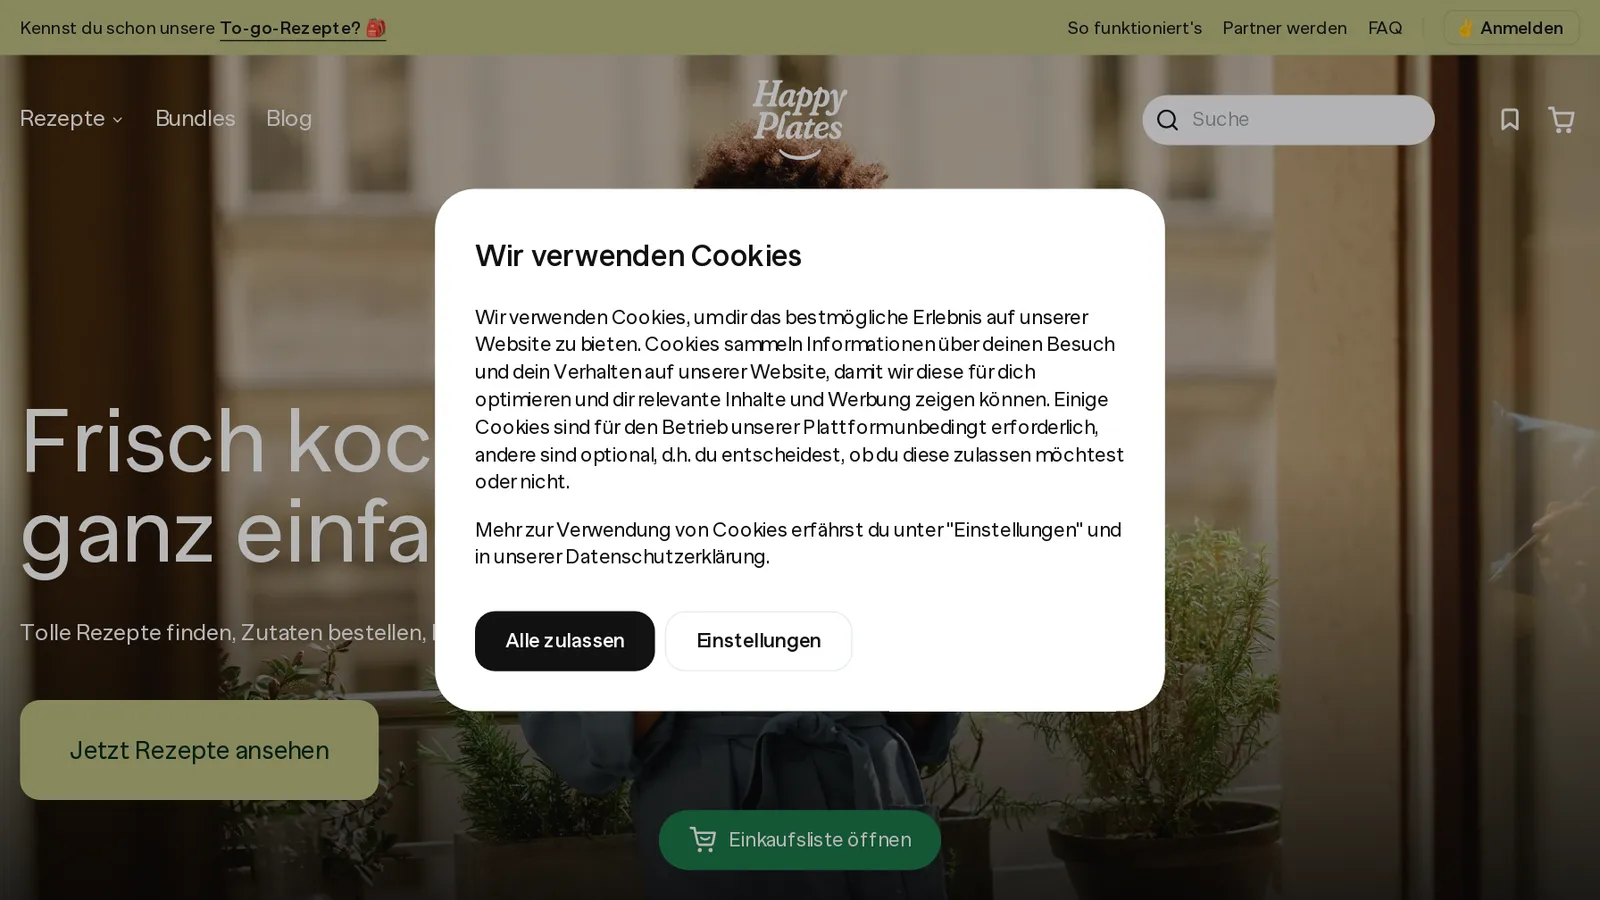
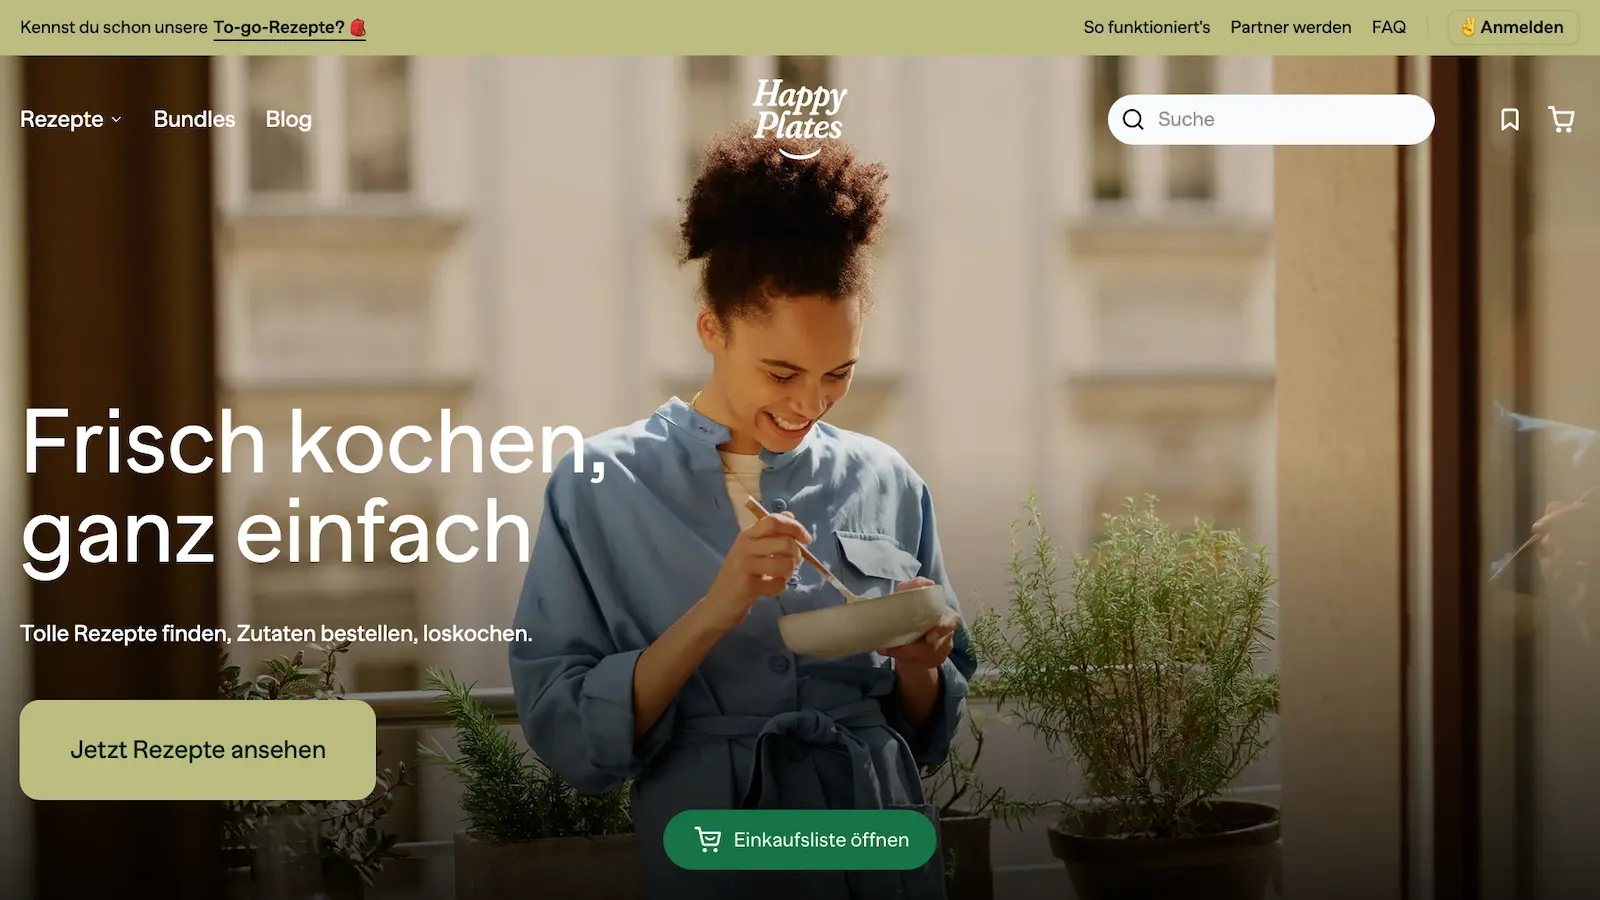
Fix up screenshots & add features/highlights

diff --git a/src/content/showcase/hackurity.md b/src/content/showcase/hackurity.md
@@ -3,4 +3,5 @@ title: "Hackurity - Automated Cybersecurity"
 image: "/src/content/showcase/_images/hackurity.webp"
 url: "https://hackurity.io/"
 categories: ["tech"]
+featured: 15
 ---

diff --git a/src/content/showcase/happyplates.com.md b/src/content/showcase/happyplates.com.md
@@ -2,4 +2,5 @@
 title: "Frisch kochen, ganz einfach | Happy Plates"
 image: /src/content/showcase/_images/happyplates.com.webp
 url: "https://happyplates.com/"
+highlight: true
 ---
